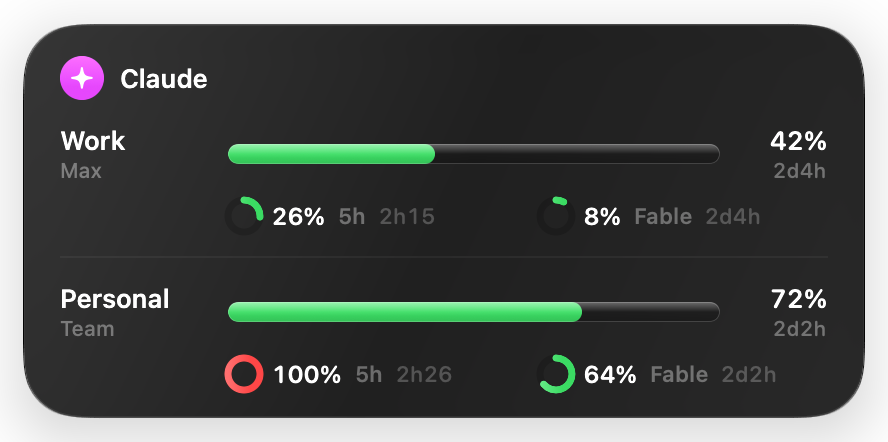
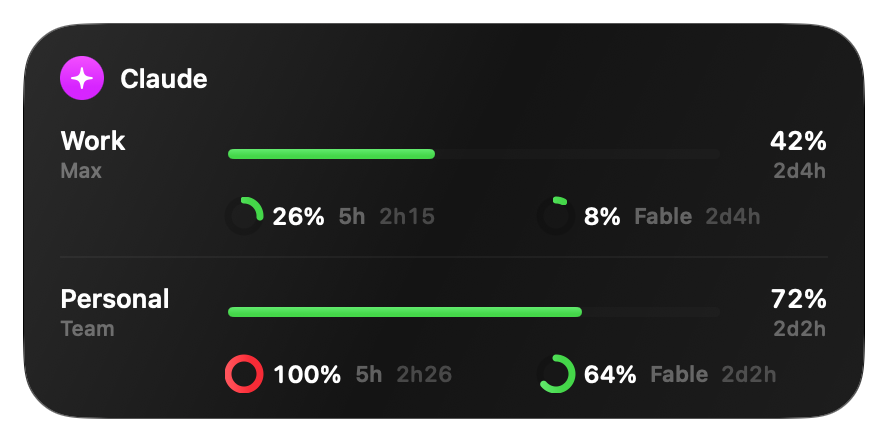
ui: one bar thickness across cards (ThinBar look for Claude and disk) (#100) (#101)

diff --git a/Sources/SohoMonitor/DiskCard.swift b/Sources/SohoMonitor/DiskCard.swift
@@ -192,10 +192,10 @@ enum Palette {
     }
 }
 
-/// One continuous thin capsule (the NAS card's bar height): adjoining segments split by a hairline, a single gloss over
-/// the whole bar. Drawn from `DiskBar.layout`, which the hover test reads too, so the highlighted segment is the one
-/// under the pointer. The pointer area reaches a few points above and below the bar, which alone is too thin to aim
-/// at.
+/// One continuous thin capsule with `ThinBar`'s height and track (CPU, memory, NAS and Claude bars): adjoining segments
+/// split by a hairline, no gloss or border. Drawn from `DiskBar.layout`, which the hover test reads too, so the
+/// highlighted segment is the one under the pointer. The pointer area reaches a few points above and below the bar,
+/// which alone is too thin to aim at.
 private struct SegmentedBar: View {
     /// Points above and below the bar that still hover it.
     static let pointerSlop: CGFloat = 5
@@ -228,18 +228,8 @@ private struct SegmentedBar: View {
             .frame(width: proxy.size.width, height: proxy.size.height, alignment: .leading)
         }
         .frame(height: ThinBar.height)
-        .background(.black.opacity(0.18))
-        .overlay {
-            LinearGradient(
-                stops: [
-                    .init(color: .white.opacity(0.45), location: 0), .init(color: .white.opacity(0.1), location: 0.46),
-                    .init(color: .black.opacity(0.1), location: 0.54), .init(color: .black.opacity(0.18), location: 1),
-                ], startPoint: .top, endPoint: .bottom
-            )
-            .allowsHitTesting(false)
-        }
+        .background(ThinBar.track, in: .capsule)
         .clipShape(.capsule)
-        .overlay(Capsule().strokeBorder(.white.opacity(0.18), lineWidth: 0.5))
         // The pointer area, outside the clip: the bar's width, a few points taller than the bar; no layout change.
         .padding(.vertical, Self.pointerSlop)
         .overlay {

diff --git a/Sources/SohoMonitor/CardKit.swift b/Sources/SohoMonitor/CardKit.swift
@@ -184,22 +184,28 @@ struct InfoPill: View {
     }
 }
 
-/// A thin capsule bar, filled to `fraction` (clamped; nil shows an empty track).
+/// A thin capsule bar, filled to `fraction` (clamped; nil shows an empty track). Every horizontal bar of the panel
+/// is this one, or the disk card's segmented bar drawn with the same height and track.
 struct ThinBar: View {
     /// Shared with the disk card's segmented bar, so both cards' bars look alike.
     static let height: CGFloat = 5
+    /// The empty part of the bar, shared with the disk card's segmented bar.
+    static var track: some ShapeStyle { HierarchicalShapeStyle.primary.opacity(0.10) }
 
     var fraction: Double?
     var tint: Color
+    /// A non-zero fraction is never drawn narrower than this, so a 1 % quota still shows (the Claude card).
+    var minimumFill: CGFloat = 0
 
     var body: some View {
         GeometryReader { proxy in
+            let share = fraction.flatMap(MetricFraction.clamped) ?? 0
             Capsule()
                 .fill(tint.gradient)
-                .frame(width: proxy.size.width * (fraction.flatMap(MetricFraction.clamped) ?? 0))
+                .frame(width: share > 0 ? max(minimumFill, proxy.size.width * share) : 0)
         }
         .frame(height: Self.height)
-        .background(.primary.opacity(0.10), in: .capsule)
+        .background(Self.track, in: .capsule)
         .clipShape(.capsule)
         .animation(.smooth, value: fraction)
     }

diff --git a/Sources/SohoMonitor/ClaudeCard.swift b/Sources/SohoMonitor/ClaudeCard.swift
@@ -133,28 +133,13 @@ enum UsageColor {
     }
 }
 
-/// A thin glass capsule filled to the limit's share.
+/// The weekly bar: the panel's thin bar (as on the CPU and memory cards), in the limit's pace colour.
 private struct UsageBar: View {
     let limit: UsageLimit
     let now: Date
 
     var body: some View {
-        GeometryReader { proxy in
-            Capsule()
-                .fill(UsageColor.of(limit.reading(now: now)).gradient)
-                .frame(width: max(limit.percent > 0 ? 4 : 0, proxy.size.width * limit.fraction))
-        }
-        .frame(height: 10)
-        .background(.black.opacity(0.18))
-        .overlay {
-            LinearGradient(
-                colors: [.white.opacity(0.35), .clear, .black.opacity(0.12)], startPoint: .top, endPoint: .bottom
-            )
-            .allowsHitTesting(false)
-        }
-        .clipShape(.capsule)
-        .overlay(Capsule().strokeBorder(.white.opacity(0.18), lineWidth: 0.5))
-        .animation(.smooth, value: limit.percent)
+        ThinBar(fraction: limit.fraction, tint: UsageColor.of(limit.reading(now: now)), minimumFill: 4)
     }
 }
 
